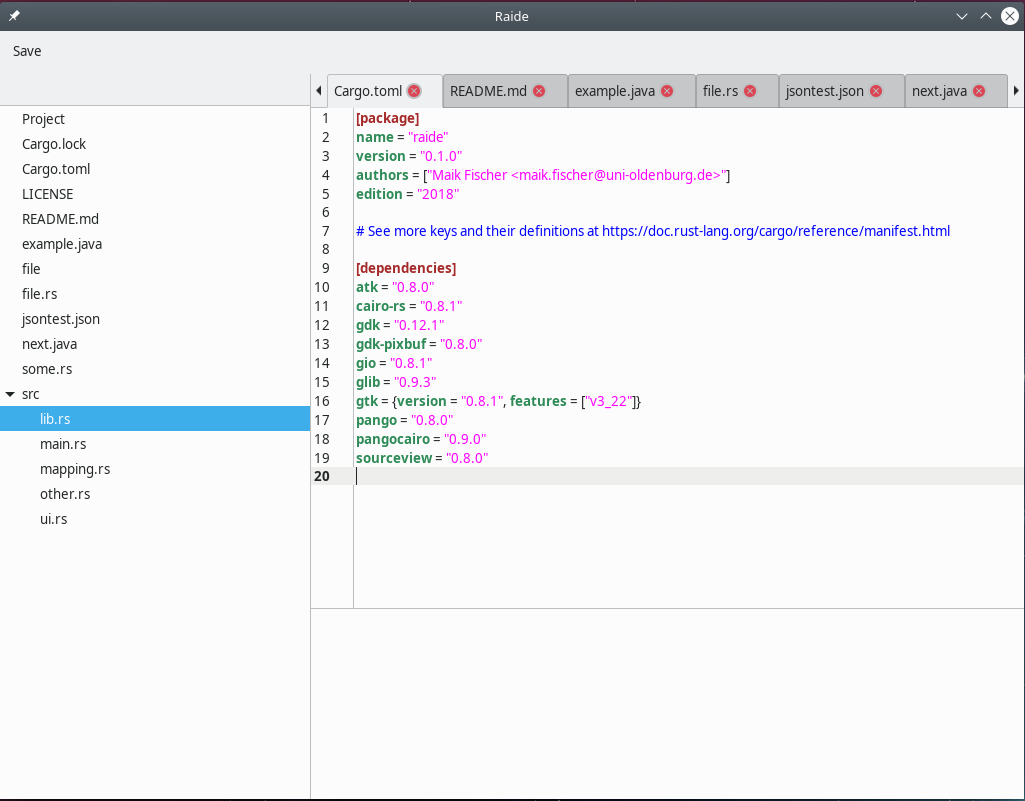
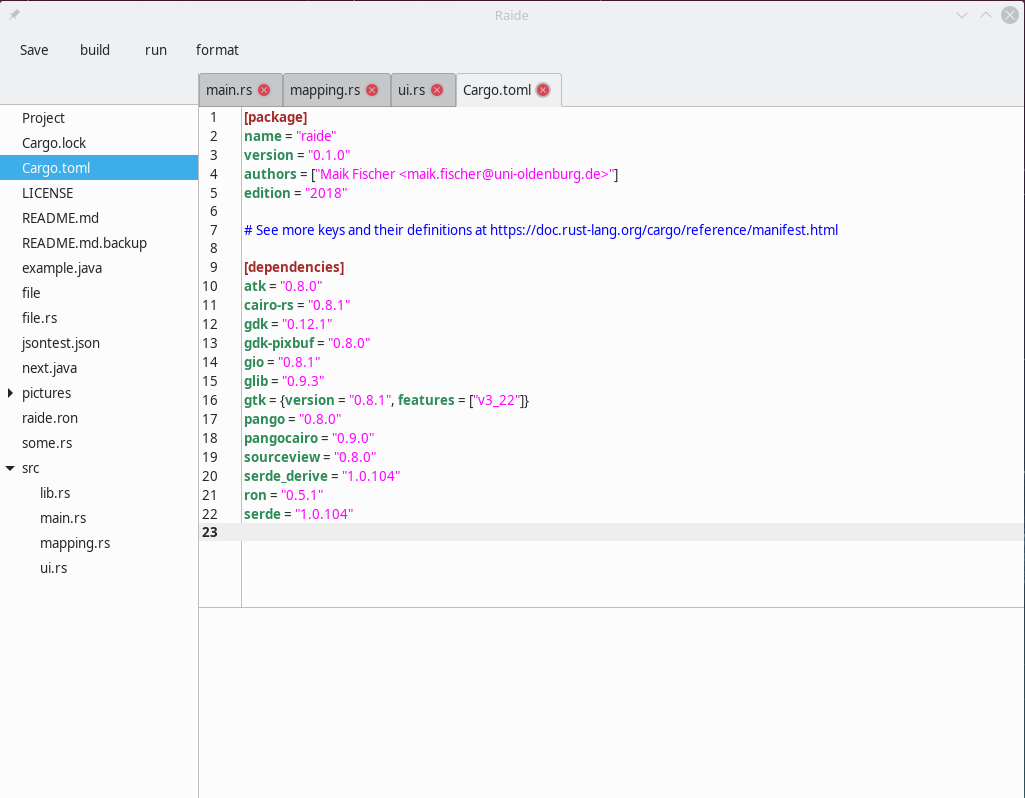
Updated picture

diff --git a/src/ui.rs b/src/ui.rs
@@ -8,6 +8,3 @@ pub struct UI {
     pub lang: LanguageManager,
     pub tree_selection: TreeSelection,
 }
-// TODO Elemente auch noch speichern
-
-// Do not implement, instead generate the struct at the end and put their the elements

diff --git a/README.md b/README.md
@@ -5,18 +5,34 @@ Raide - A ray of light in the world of IDEs
 
 ## Introduction
 
+As IDEs grow big with many MenuItems, working with them gets confusing. Sadly, many IDEs are only suited to a subset of languages.
+
 Raide is a simple IDE with a multi project approach in mind. It features currently:
 
 * A save button
 * Multiple Tabs of files that are closable and writable. Right click reveals the full path.
 * Source highlighting of many languages including Rust, Java, JSON and Markdown.
+* Generatable buttons with commands read from the workspace file raide.ron
 
 ## Intended features
 
-As IDEs grow big with many Menu Items, working with them gets confusing. Sadly, many IDEs are only suited to a subset of languages.
-By utilizing the underlying command line commands in a configurable workspace.ron, the user can define Buttons and commands with functions that are project dependent.
+Another useful feature would be code completion on file level, which is file and project dependent.
 
-Another useful feature is code completion, which is file and project dependent.
-
+## Example raide.ron
 
 
+```
+(
+    name: "raide",
+    exclude_files: [],
+    commands: [(name:"build",has_button:true,command:"cargo build",key_binding:None,),(name:"run",has_button:true,command:"./file",key_binding:None,),(name:"format",has_button:true,command:"rustfmt {file}",key_binding:None,),],
+)
+
+
+```
+
+This config features a 
+
+* project level build button
+* project level run button
+* file level format button 
